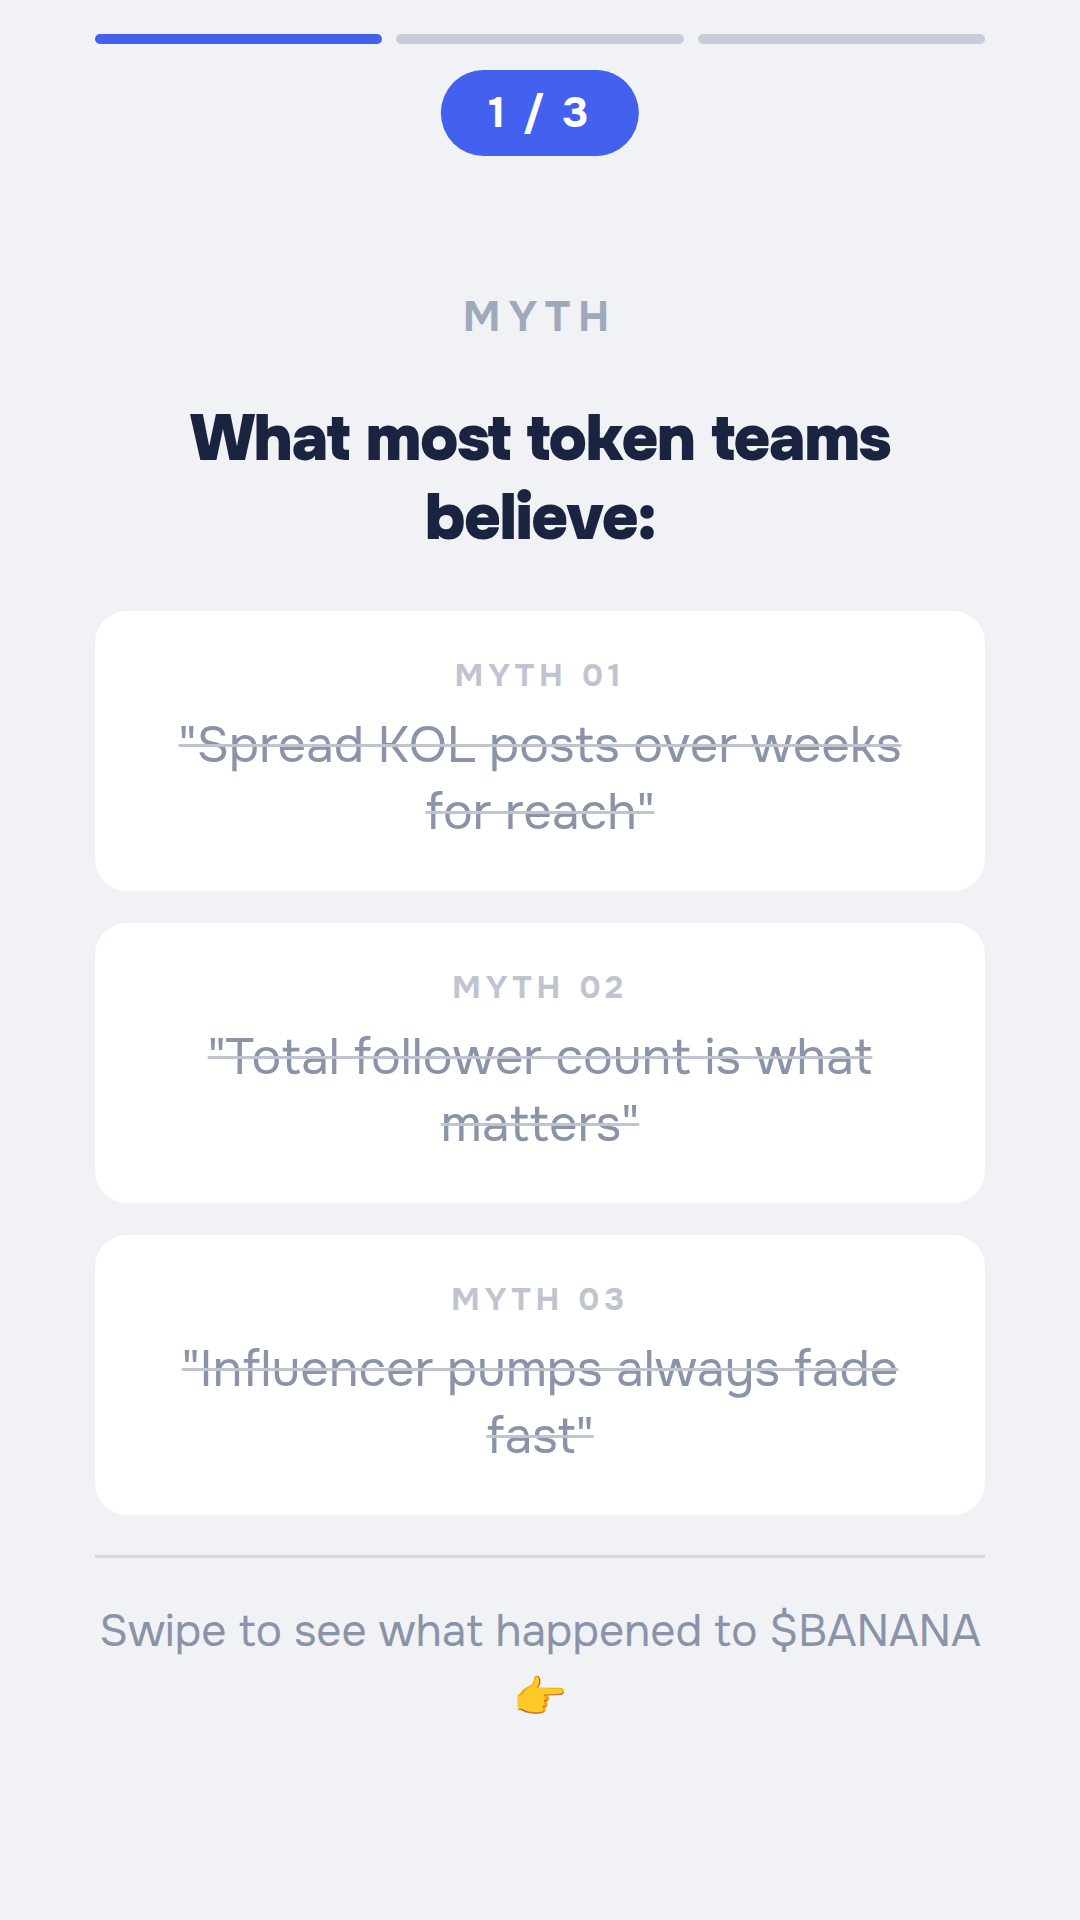
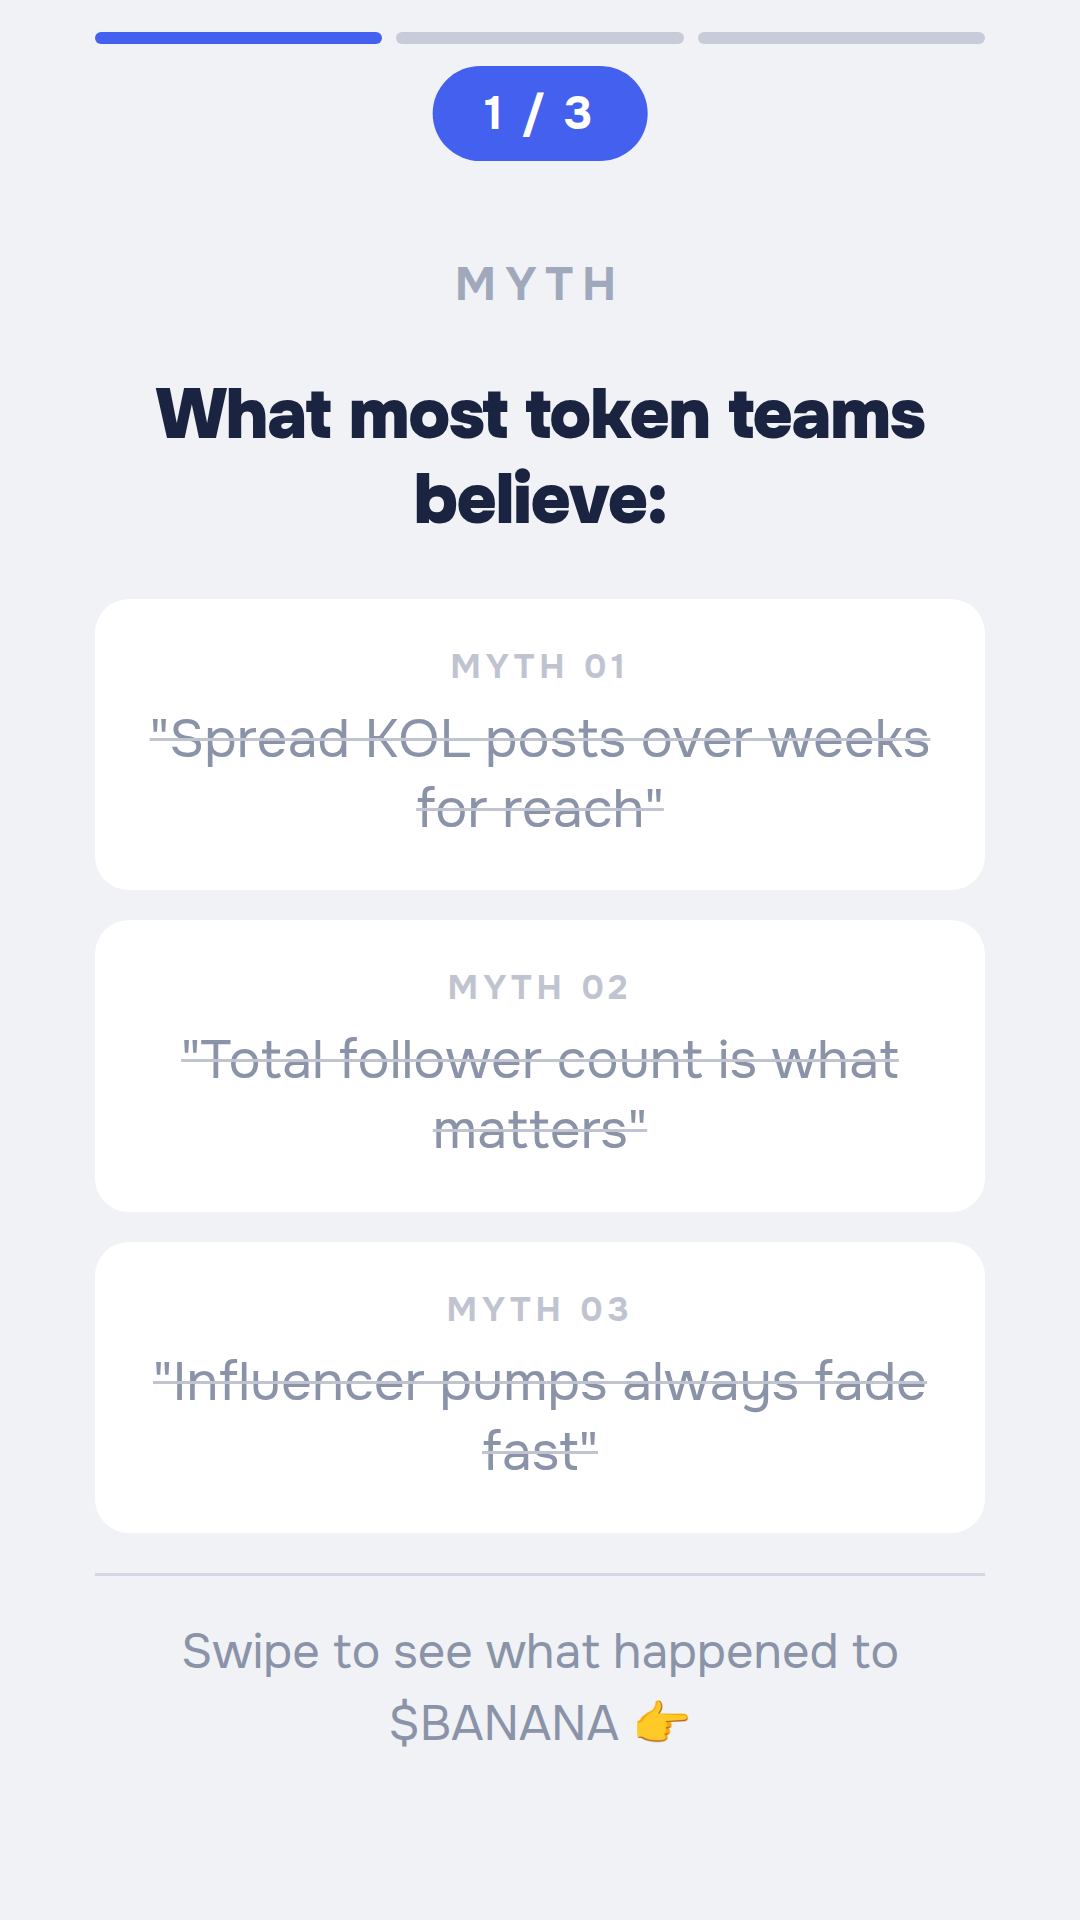
Bump up text and element sizes further on Banana Gun Format 3 stories
Increase typography, box padding, CTA, progress bar and pill scale
across all 3 slides, tightening the canvas safe-zone padding to make
room while staying clear of overflow.

Claude-Session: https://claude.ai/code/session_018DjURTUB4CV4xJVC9rW54T

diff --git a/stories/telegram-story-banana-gun-format-3-myth-reality.html b/stories/telegram-story-banana-gun-format-3-myth-reality.html
@@ -57,52 +57,52 @@
     box-shadow: 0 20px 60px rgba(0,0,0,0.18);
     display: flex;
     flex-direction: column;
-    padding: 230px 95px 130px;
+    padding: 210px 95px 115px;
     position: relative;
     overflow: hidden;
   }
 
   .story-num {
     position: absolute;
-    top: 70px;
+    top: 66px;
     left: 50%;
     transform: translateX(-50%);
     background: #4361ee;
     color: white;
-    font-size: 42px;
+    font-size: 46px;
     font-weight: 700;
     letter-spacing: 3px;
-    padding: 16px 48px;
-    border-radius: 90px;
+    padding: 18px 52px;
+    border-radius: 96px;
   }
 
-  .prog { position: absolute; top: 34px; left: 95px; right: 95px; display: flex; gap: 14px; }
-  .ps { height: 10px; flex: 1; border-radius: 10px; background: #c8ccd8; }
+  .prog { position: absolute; top: 32px; left: 95px; right: 95px; display: flex; gap: 14px; }
+  .ps { height: 12px; flex: 1; border-radius: 12px; background: #c8ccd8; }
   .ps.on { background: #4361ee; }
 
   .tag {
-    font-size: 42px;
+    font-size: 46px;
     font-weight: 700;
-    letter-spacing: 8px;
+    letter-spacing: 9px;
     color: #a0a8bc;
     text-align: center;
-    margin-bottom: 56px;
+    margin-bottom: 58px;
     text-transform: uppercase;
   }
   .divider { height: 3px; background: #d4d8e4; margin: 40px 0; }
   .bl { color: #4361ee; }
 
   .hook {
-    font-size: 72px;
+    font-size: 78px;
     font-weight: 900;
     color: #1a2340;
     line-height: 1.22;
     letter-spacing: -1.5px;
     text-align: center;
-    margin-bottom: 50px;
+    margin-bottom: 52px;
   }
   .muted {
-    font-size: 44px;
+    font-size: 48px;
     color: #8a93a8;
     line-height: 1.5;
     text-align: center;
@@ -110,34 +110,34 @@
 
   .bl-row {
     display: flex;
-    gap: 28px;
+    gap: 30px;
     align-items: flex-start;
     margin-bottom: 34px;
-    font-size: 46px;
+    font-size: 50px;
     color: #1a2340;
     line-height: 1.4;
   }
-  .chk { color: #4361ee; font-size: 50px; flex-shrink: 0; margin-top: 4px; }
+  .chk { color: #4361ee; font-size: 54px; flex-shrink: 0; margin-top: 4px; }
 
   .cta {
     background: #4361ee;
     color: white;
-    font-size: 46px;
+    font-size: 50px;
     font-weight: 700;
-    border-radius: 32px;
-    padding: 40px 54px;
+    border-radius: 34px;
+    padding: 42px 56px;
     text-align: center;
-    margin-top: 54px;
+    margin-top: 56px;
   }
 
   .myth-box {
     background: white;
-    border-radius: 32px;
-    padding: 44px 50px;
-    margin-bottom: 32px;
+    border-radius: 34px;
+    padding: 46px 52px;
+    margin-bottom: 30px;
   }
   .myth-lbl {
-    font-size: 32px;
+    font-size: 34px;
     font-weight: 700;
     letter-spacing: 5px;
     text-transform: uppercase;
@@ -145,9 +145,9 @@
     margin-bottom: 16px;
   }
   .myth-txt {
-    font-size: 50px;
+    font-size: 54px;
     color: #8a93a8;
-    line-height: 1.35;
+    line-height: 1.3;
     text-decoration: line-through;
     text-decoration-color: #c0c4d0;
     text-decoration-thickness: 3px;
@@ -155,13 +155,13 @@
 
   .truth-box {
     background: #eef0fd;
-    border-radius: 32px;
-    padding: 44px 50px;
-    margin-bottom: 32px;
+    border-radius: 34px;
+    padding: 46px 52px;
+    margin-bottom: 30px;
     border-left: 14px solid #4361ee;
   }
   .truth-lbl {
-    font-size: 32px;
+    font-size: 34px;
     font-weight: 700;
     letter-spacing: 5px;
     text-transform: uppercase;
@@ -169,10 +169,10 @@
     margin-bottom: 16px;
   }
   .truth-txt {
-    font-size: 46px;
+    font-size: 50px;
     color: #1a2340;
     font-weight: 600;
-    line-height: 1.35;
+    line-height: 1.3;
   }
 
   .spacer { flex: 1; }
@@ -194,7 +194,7 @@
       <div class="story-num">1 / 3</div>
       <div class="spacer"></div>
       <div class="tag">Myth</div>
-      <div class="hook" style="font-size:64px; margin-bottom:54px;">What most token teams believe:</div>
+      <div class="hook" style="font-size:70px; margin-bottom:56px;">What most token teams believe:</div>
       <div class="myth-box">
         <div class="myth-lbl">Myth 01</div>
         <div class="myth-txt">"Spread KOL posts over weeks for reach"</div>
@@ -220,7 +220,7 @@
       <div class="story-num">2 / 3</div>
       <div class="spacer"></div>
       <div class="tag">Reality</div>
-      <div class="hook" style="font-size:72px; margin-bottom:50px;">Here's what<br><span class="bl">actually happened:</span></div>
+      <div class="hook" style="font-size:78px; margin-bottom:52px;">Here's what<br><span class="bl">actually happened:</span></div>
       <div class="truth-box">
         <div class="truth-lbl">Fact 01</div>
         <div class="truth-txt">77 publications, 69 KOLs — synced into one 72-hour window</div>
@@ -244,7 +244,7 @@
       <div class="story-num">3 / 3</div>
       <div class="spacer"></div>
       <div class="tag">The Secret</div>
-      <div class="hook" style="font-size:60px; margin-bottom:50px;">It's not about reach.<br>It's not the count.<br><span class="bl">It's the sync.</span></div>
+      <div class="hook" style="font-size:66px; margin-bottom:52px;">It's not about reach.<br>It's not the count.<br><span class="bl">It's the sync.</span></div>
       <div class="bl-row"><div class="chk">✓</div><span>69 KOLs, 5 regions, 8 languages — one narrative</span></div>
       <div class="bl-row"><div class="chk">✓</div><span>72-hour synchronized window, not a drip</span></div>
       <div class="bl-row"><div class="chk">✓</div><span>Twitter waves timed to compound with YouTube drops</span></div>
